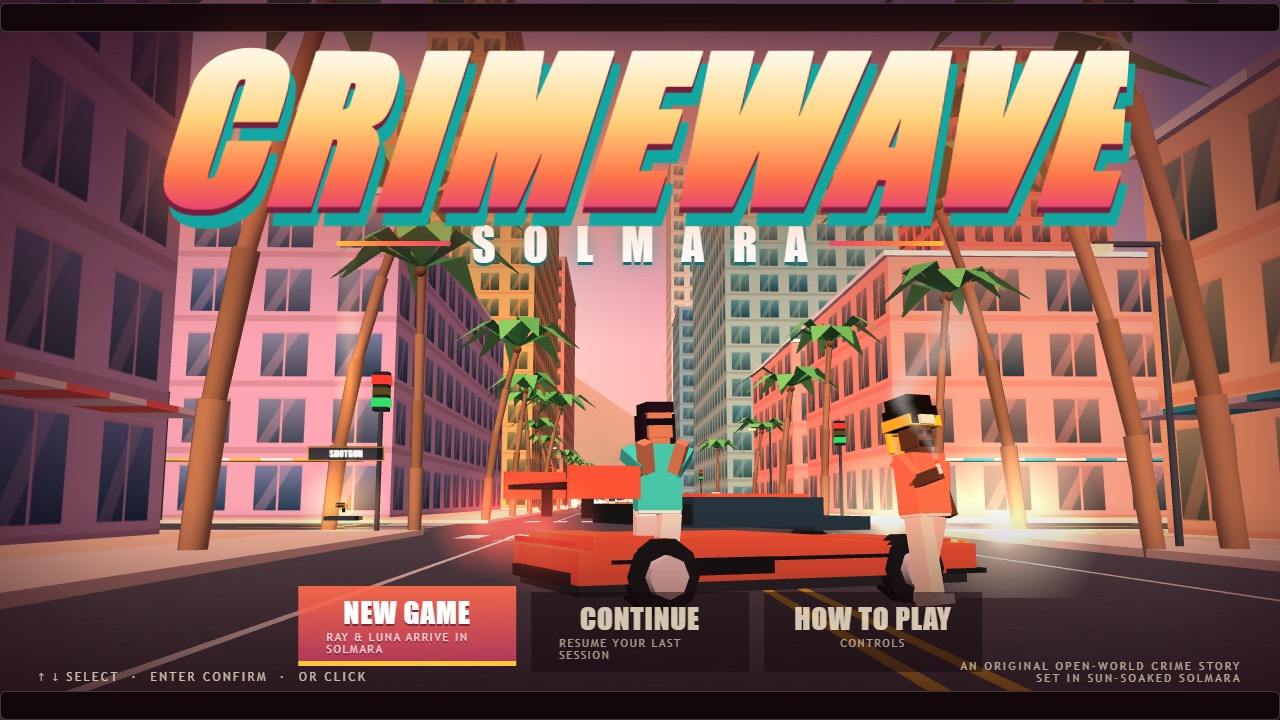
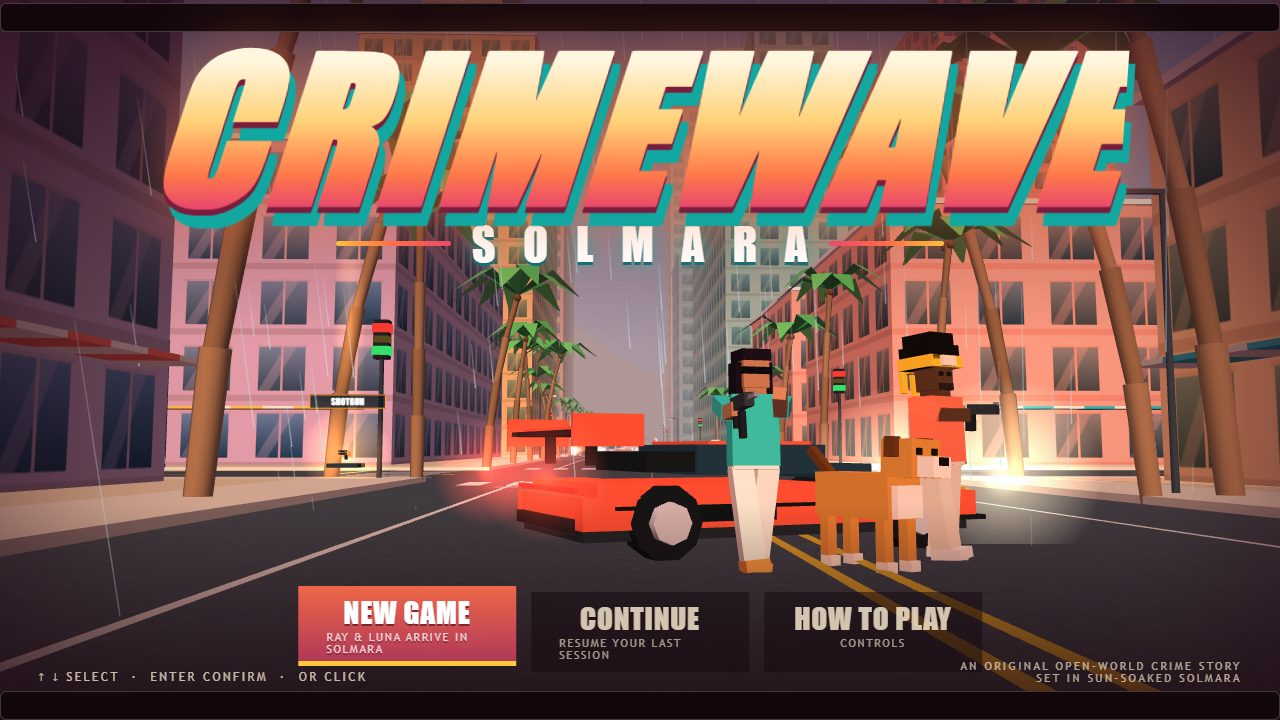
Final screenshots r6: heli-boom cover, beach market war, map with checkpoint, title; &stage=market and &scene capture hooks

diff --git a/game/src/main.js b/game/src/main.js
@@ -138,7 +138,7 @@
   // Camera (capture only), all optional: &cam=<side metres, default 3.4> &camh=<lens height m, 0.9> &camf=<metres ahead, 6.4>
   //   &fov=<deg> &hr=<hour> &hud=0.   cam is signed: negative swings the lens to the driver's side.
   const capQ = new URLSearchParams(location.search), stageQ = capQ.get('stage');
-  const capType = capQ.get('capture') || (stageQ === 'boom' ? 'sports' : null);
+  const capType = capQ.get('capture') || (stageQ === 'boom' || stageQ === 'market' ? 'sports' : null);
   let capture = null;
   const qn = (k, d) => { const v = parseFloat(capQ.get(k)); return isFinite(v) ? v : d; };
   function stageLate() {
@@ -158,7 +158,7 @@
     if (stageQ === 'late') stageLate();
     stageMission();
     const P = CW.player, W = CW.police, beach = capQ.get('loc') === 'beach';
-    const S = beach ? CW.world.spawn : { x: stageQ === 'boom' ? -64 : -6, z: 2.7, h: Math.PI / 2 };   // DOWNTOWN: east-bound lane of the z=0 avenue, just short of the x=0 junction (clear sight line down the cross street)
+    const S = beach ? CW.world.spawn : { x: stageQ === 'boom' ? -64 : stageQ === 'market' ? 258 : -6, z: stageQ === 'market' ? 6.5 : 2.7, h: Math.PI / 2 };   // DOWNTOWN: east-bound lane of the z=0 avenue, just short of the x=0 junction (clear sight line down the cross street)
     const h = S.h, sn = Math.sin(h), cs = Math.cos(h);
     const R = { x: -cs, z: sn };   // car-right (passenger side), as used by gunner.js
     const car = CW.vehicles.add(type, CW.CAR_TYPES[type].colors[0], S.x, S.z, h);
@@ -196,7 +196,7 @@
       W.heat = 4; W.level = 4; W.lostT = 0; W.bust = 0; W.seen = true; st.wanted = 4;
       W.cops.forEach((q) => { if (q !== cop && !q.hidden) { q.hidden = true; q.cs = 'idle'; } });
       // staged cruiser: out the passenger side, a little ahead, broadside to Luna, never takes damage (closer downtown: narrower streets)
-      const out = capture.beach ? 21 : 14;
+      const out = capture.beach ? 21 : qn('out', 14);
       if (capture.chase) {
         // &chase=<speed m/s>: the car cruises east on the avenue, two cruisers tail it, the police heli trails overhead (capture only)
         const v = capture.chase, A = CW.air.policeHeli;
@@ -214,6 +214,25 @@
         });
         W.cops.forEach((q, i) => { if (i > 1 && !q.hidden) { q.hidden = true; q.cs = 'idle'; } });
         capture.t = (capture.t || 0) + dt;
+        if (qn('scene', 0)) {   // &scene=1: street behind the chase filled with supercars (parked + cruising) and smouldering wrecks, all pinned relative to our car
+          const PK = CW.C.PARK;
+          if (!capture.sc) {
+            const S = [['sports', 2, 27, 2.7], ['sports', 1, 41, 2.7], ['sports', 3, 33, -2.7, -1], ['sports', 4, 52, -2.7, -1], ['sports', 0, 22, PK], ['suv', 2, 36, PK], ['sports', 1, 29, -PK], ['sports', 4, 46, PK], ['sports', 2, 60, 2.7], ['sports', 3, 66, -PK], ['sedan', 0, 58, -2.7, -1],
+              ['sedan', 1, 24, -1.0, 0, 1], ['hatch', 2, 20, -6.0, 0, 1], ['suv', 1, 47, 3.8, 0, 1], ['sedan', 3, 35, -4.5, 0, 1], ['hatch', 0, 56, 0.5, 0, 1]];
+            capture.sc = S.map(([ty, ci, back, z, dir, wreck], i) => {
+              const cols = CW.CAR_TYPES[ty].colors, hh = wreck ? h + (i % 2 ? 0.6 : -0.5) : dir ? h + Math.PI : h;
+              const v = CW.vehicles.add(ty, cols[ci % cols.length], car.x - back, z, hh); v.awake = false; v.ai = null;
+              if (wreck) { v.hp = 0; v._ws = 'after'; v._wt = 0; v._fuse = 1e9; v.mesh.traverse((o) => { if (o.isMesh && o.material && !o.material.isSpriteMaterial) { o.material = o.material.clone(); o.material.color.multiplyScalar(0.22); } }); }
+              return { v, back, z, dir: dir || 0, wreck, hh };
+            });
+          }
+          capture.sc.forEach((s) => {
+            const v = s.v; v.hidden = false; v.mesh.visible = true;
+            if (s.wreck) { v.hp = 0; v._wt = Math.min(v._wt || 0, 2.5); }
+            v.x = car.x - s.back + (s.dir ? -s.dir * 0 : 0); v.z = s.z; v.h = s.hh; v.vx = v.vz = 0; v.speed = 0;
+            v.mesh.position.set(v.x, 0, v.z); v.mesh.rotation.y = s.hh;
+          });
+        }
         if (qn('hdown', 0) && capture.t >= qn('hdown', 0) && A.state !== 'down') { A.state = 'down'; A.vy = 0; A.spin = 1.5; A.vx = car.vx; A.vz = car.vz; }   // &hdown=<s>: shot down at that moment
         if (A.state !== 'down') { A.hp = 400; A.ang = Math.atan2(-cs, -sn) + 0.5; }
       } else {
@@ -230,8 +249,30 @@
         if (A.state !== 'down') { A.x = car.x - sn * hb + R.x * hs; A.z = car.z - cs * hb + R.z * hs; A.y = hy; A.vx = car.vx; A.vz = car.vz; A.h = h; A.mk.root.position.set(A.x, A.y, A.z); }
       }
     }
+    const market = stageQ === 'market';
+    if (market) {
+      // &stage=market: night-market firefight. Crowd (all 28 peds) flees hands-up along the pavement, blasts every &every s, heli overhead.
+      const T = CW.traffic, A = CW.air.policeHeli, tm = capture.t = (capture.t || 0) + dt, ev = qn('every', 4);
+      if (!capture.mk && tm > 1.2) {
+        capture.mk = true;
+        if (!A.active) { A.active = true; A.state = 'orbit'; A.hp = 400; A.leaveT = 0; A.vx = A.vz = A.vy = 0; A.spot.x = car.x; A.spot.z = car.z; A.mk.root.visible = true; A.cone.visible = true; A.disc.visible = true; }
+        capture.shots = [];
+        capture.reseat = (p, i) => {   // seat a ped mid-crowd, fleeing; called again when it dies or runs out of the frame
+          p.state = 'flee'; p.t = 60; p.hp = 100; p.model.visible = true; p.model.rotation.x = 0; p.vx = p.vz = 0;
+          p.x = car.x + 8 + (i % 14) * 1.6 + (i % 3) * 0.4; p.z = 3 + (i % 4) * 2.6;
+          const k = i % 2 ? 1 : -1; p.fx = k * 0.8; p.fz = (i % 3 - 1) * 0.25;
+          p.model.position.set(p.x, 0, p.z);
+        };
+        T.peds.forEach(capture.reseat);
+      }
+      if (capture.reseat) T.peds.forEach((p, i) => { if (p.state === 'dead' || p.x < car.x + 2 || p.x > car.x + 30 || p.z < 1.5 || p.z > 12.5) capture.reseat(p, i); else p.t = 60; });
+      A.hp = 400; A.x = car.x + qn('hx', 16); A.z = car.z + qn('hz', -2); A.y = qn('hy', 26); A.vx = A.vz = 0; A.h = h; A.mk.root.position.set(A.x, A.y, A.z);
+      const ph = tm % ev, n = Math.floor(tm / ev);
+      if (capture.shots) [[0.5, 9, 7], [1.1, 24, 9], [1.7, 16, 4.5]].forEach(([at, dx, zz], i) => { const id = n * 3 + i; if (ph >= at && !capture.shots[id]) { capture.shots[id] = 1; CW.fx.explode(car.x + dx, zz, 5.5); } });
+      if (qn('tx', null) !== null) { tx = qn('tx', tx); ty = qn('ty', ty); tz = qn('tz', tz); c.position.set(car.x + qn('px', 0), camh, qn('pz', -8)); }
+    }
     c.fov = fov; c.updateProjectionMatrix(); c.lookAt(tx, ty, tz);
-    const near = boom ? 7 : 25;
+    const near = boom ? 7 : market ? 0 : 25;
     CW.traffic.peds.forEach((p) => { if (Math.hypot(p.x - c.position.x, p.z - c.position.z) < near) p.model.visible = false; });   // no bystanders in the evidence frame
     // anything else within 12 m of the lens would hide the subject: hide it (the staged boom cars are exempt)
     CW.vehicles.list.forEach((v) => { if (v !== car && v !== cop && !(capture.chase && v === CW.police.cops[1]) && !(boom && boom.cars.includes(v)) && Math.hypot(v.x - c.position.x, v.z - c.position.z) < 12) v.mesh.visible = false; });
